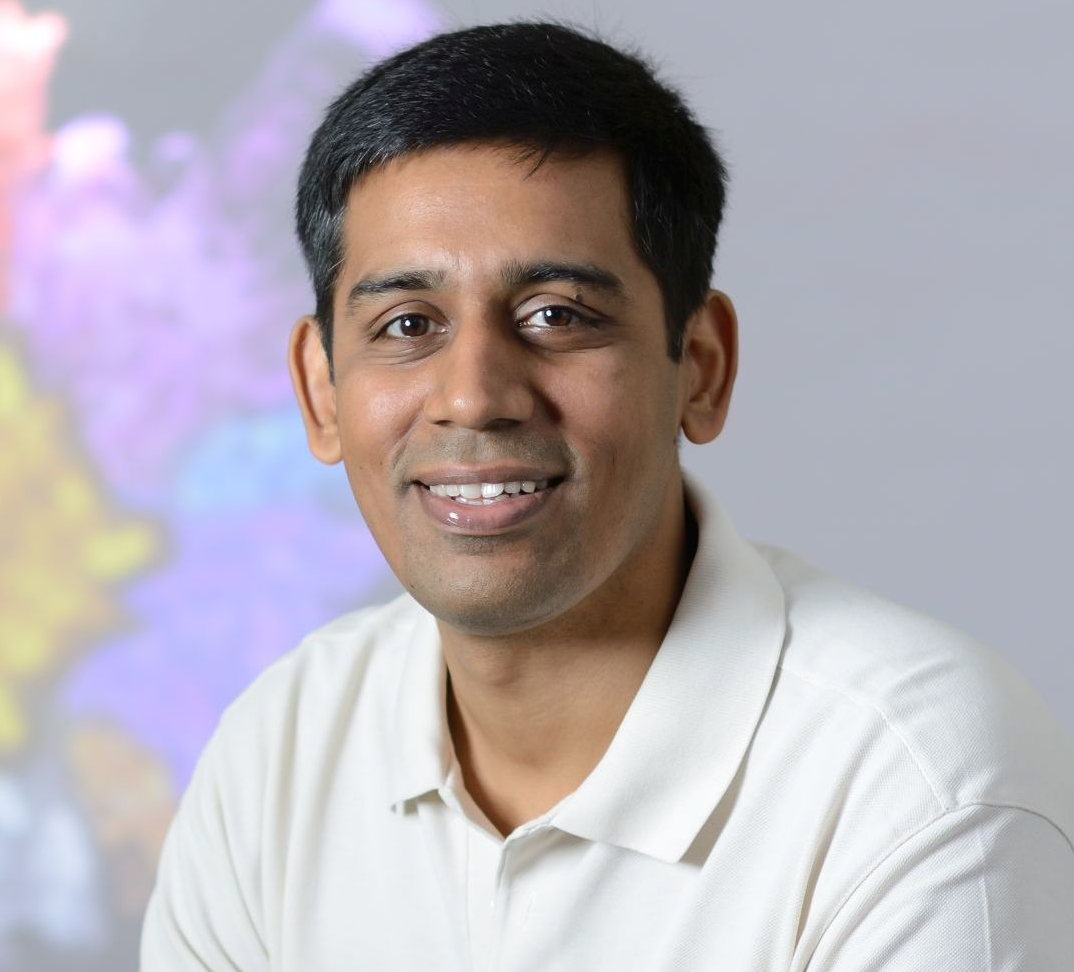
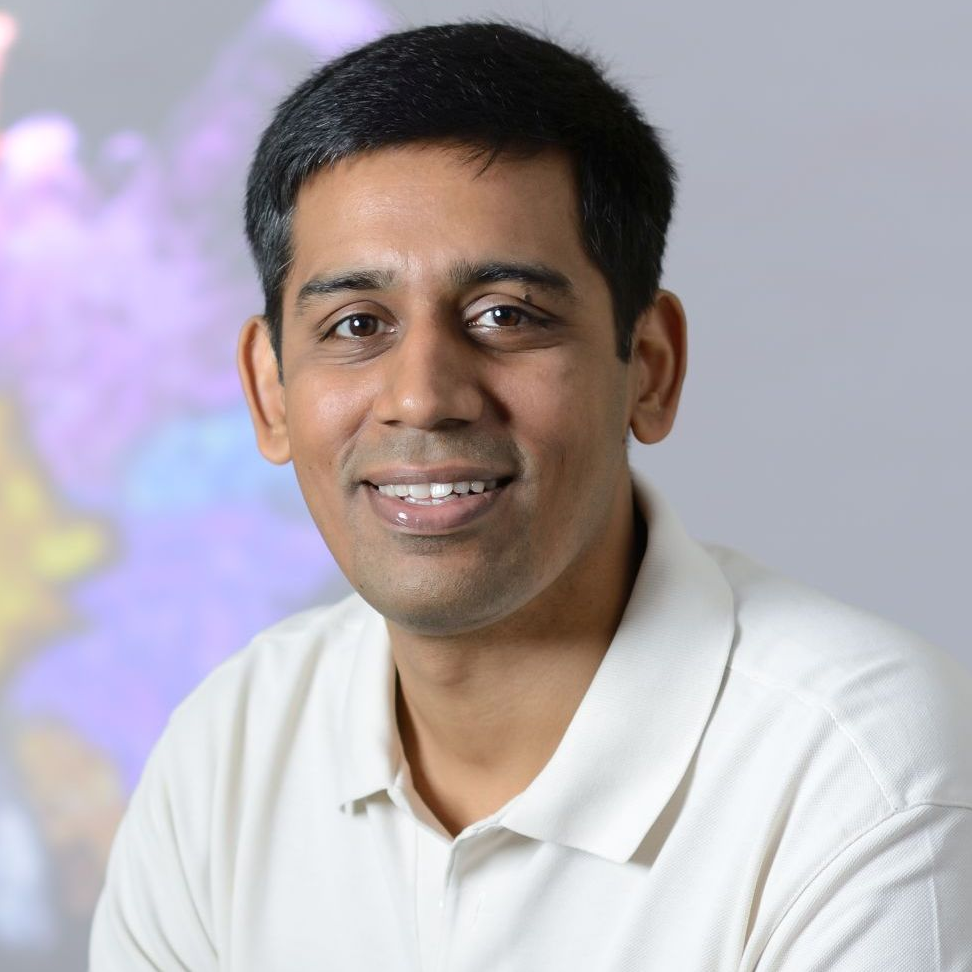
Put optimized pictures for people

diff --git a/src/organisers.js b/src/organisers.js
@@ -26,7 +26,7 @@ const organisers = {
         },
         {
             "name": "Chetan Arora",
-            "image": "assets/3.png",
+            "image": "assets/3.jpg",
             "designation": "IIT Delhi",
             "socials":
             {
@@ -76,7 +76,7 @@ const organisers = {
         },
         {
             "name": "Nicu Sebe",
-            "image": "assets/7.png",
+            "image": "assets/7.jpg",
             "designation": "University of Trento",
             "socials":
             {
